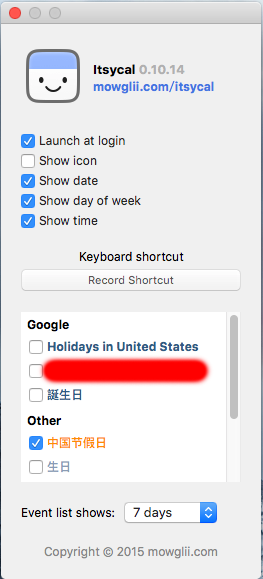
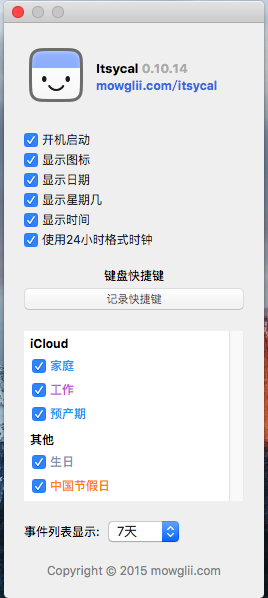
1, Add a use 24-hour clock format option in preference. 2, Update preference.png.

diff --git a/Itsycal/PrefsViewController.m b/Itsycal/PrefsViewController.m
@@ -40,6 +40,7 @@ static NSString * const kCalendarCellId = @"CalendarCell";
     NSButton *_showDate;
     NSButton *_showDayOfWeek;
     NSButton *_showTime;
+    NSButton *_use24Hour;
     NSTableView *_calendarsTV;
     NSPopUpButton *_daysPopup;
 }
@@ -137,6 +138,14 @@ static NSString * const kCalendarCellId = @"CalendarCell";
     [_showTime setButtonType:NSSwitchButton];
     [v addSubview:_showTime];
     
+    // use 24-hour clock format
+    _use24Hour = [NSButton new];
+    _use24Hour.translatesAutoresizingMaskIntoConstraints = NO;
+    _use24Hour.title = NSLocalizedString(@"Use 24-hour clock format", @"");
+    _use24Hour.font = [NSFont systemFontOfSize:12];
+    [_use24Hour setButtonType:NSSwitchButton];
+    [v addSubview:_use24Hour];
+    
     // Shortcut label
     MoTextField *shortcutLabel = txt(NSLocalizedString(@"Keyboard shortcut", @""));
     
@@ -186,18 +195,19 @@ static NSString * const kCalendarCellId = @"CalendarCell";
     
     // Convenience function to make visual constraints.
     void (^vcon)(NSString*) = ^(NSString *format) {
-        [v addConstraints:[NSLayoutConstraint constraintsWithVisualFormat:format options:0 metrics:@{@"m": @20} views:NSDictionaryOfVariableBindings(appIcon, _title, link, _login, _showIcon, _showDate, _showDayOfWeek, _showTime, shortcutLabel, shortcutView, tvContainer, daysLabel, _daysPopup, copyright)]];
+        [v addConstraints:[NSLayoutConstraint constraintsWithVisualFormat:format options:0 metrics:@{@"m": @20} views:NSDictionaryOfVariableBindings(appIcon, _title, link, _login, _showIcon, _showDate, _showDayOfWeek, _showTime, _use24Hour,shortcutLabel, shortcutView, tvContainer, daysLabel, _daysPopup, copyright)]];
     };
     vcon(@"V:|-m-[appIcon(64)]");
     vcon(@"H:|-m-[appIcon(64)]-[_title]-(>=m)-|");
     vcon(@"H:[appIcon]-[link]-(>=m)-|");
     vcon(@"V:|-36-[_title]-1-[link]");
-    vcon(@"V:|-110-[_login]-[_showIcon]-[_showDate]-[_showDayOfWeek]-[_showTime]-20-[shortcutLabel]-3-[shortcutView(25)]-20-[tvContainer(170)]-[_daysPopup]-20-[copyright]-m-|");
+    vcon(@"V:|-110-[_login]-[_showIcon]-[_showDate]-[_showDayOfWeek]-[_showTime]-[_use24Hour]-20-[shortcutLabel]-3-[shortcutView(25)]-20-[tvContainer(170)]-[_daysPopup]-20-[copyright]-m-|");
     vcon(@"H:|-m-[_login]-(>=m)-|");
     vcon(@"H:|-m-[_showIcon]-(>=m)-|");
     vcon(@"H:|-m-[_showDate]-(>=m)-|");
     vcon(@"H:|-m-[_showDayOfWeek]-(>=m)-|");
     vcon(@"H:|-m-[_showTime]-(>=m)-|");
+    vcon(@"H:|-m-[_use24Hour]-(>=m)-|");
     vcon(@"H:|-(>=m)-[shortcutLabel]-(>=m)-|");
     vcon(@"H:|-m-[shortcutView(>=220)]-m-|");
     vcon(@"H:|-m-[tvContainer]-m-|");
@@ -230,6 +240,7 @@ static NSString * const kCalendarCellId = @"CalendarCell";
     [_showDate bind:@"value" toObject:[NSUserDefaultsController sharedUserDefaultsController] withKeyPath:[@"values." stringByAppendingString:kShowData] options:@{NSContinuouslyUpdatesValueBindingOption: @(YES)}];
     [_showDayOfWeek bind:@"value" toObject:[NSUserDefaultsController sharedUserDefaultsController] withKeyPath:[@"values." stringByAppendingString:kShowDayOfWeek] options:@{NSContinuouslyUpdatesValueBindingOption: @(YES)}];
     [_showTime bind:@"value" toObject:[NSUserDefaultsController sharedUserDefaultsController] withKeyPath:[@"values." stringByAppendingString:kShowTime] options:@{NSContinuouslyUpdatesValueBindingOption: @(YES)}];
+    [_use24Hour bind:@"value" toObject:[NSUserDefaultsController sharedUserDefaultsController] withKeyPath:[@"values." stringByAppendingString:kUse24Hour] options:@{NSContinuouslyUpdatesValueBindingOption: @(YES)}];
     
     // Bindings for agenda days
     [_daysPopup bind:@"selectedIndex" toObject:[NSUserDefaultsController sharedUserDefaultsController] withKeyPath:[@"values." stringByAppendingString:kShowEventDays] options:@{NSContinuouslyUpdatesValueBindingOption: @(YES)}];

diff --git a/Itsycal/ViewController.m b/Itsycal/ViewController.m
@@ -41,6 +41,7 @@
     [[NSUserDefaults standardUserDefaults] removeObserver:self forKeyPath:kShowData];
     [[NSUserDefaults standardUserDefaults] removeObserver:self forKeyPath:kShowDayOfWeek];
     [[NSUserDefaults standardUserDefaults] removeObserver:self forKeyPath:kShowTime];
+    [[NSUserDefaults standardUserDefaults] removeObserver:self forKeyPath:kUse24Hour];
     [_clockTimer invalidate];
 }
 
@@ -443,7 +444,15 @@
     if ([[NSUserDefaults standardUserDefaults] boolForKey:kShowTime]) {
         if (dateText.length)
             [dateText appendString:@" "];
-        [dateText appendString:[NSDateFormatter localizedStringFromDate:date dateStyle:NSDateFormatterNoStyle timeStyle:NSDateFormatterShortStyle]];
+        
+        if ([[NSUserDefaults standardUserDefaults] boolForKey:kUse24Hour]) {
+            NSDateFormatter* timeFormatter = [[NSDateFormatter alloc] init];
+            [timeFormatter setDateFormat:@"HH:mm"];
+            [dateText appendString:[timeFormatter stringFromDate:date]];
+        }
+        else {
+            [dateText appendString:[NSDateFormatter localizedStringFromDate:date dateStyle:NSDateFormatterNoStyle timeStyle:NSDateFormatterShortStyle]];
+        }
     }
 
     return dateText;
@@ -806,6 +815,7 @@
     [[NSUserDefaults standardUserDefaults] addObserver:self forKeyPath:kShowData options:NSKeyValueObservingOptionNew context:NULL];
     [[NSUserDefaults standardUserDefaults] addObserver:self forKeyPath:kShowDayOfWeek options:NSKeyValueObservingOptionNew context:NULL];
     [[NSUserDefaults standardUserDefaults] addObserver:self forKeyPath:kShowTime options:NSKeyValueObservingOptionNew context:NULL];
+    [[NSUserDefaults standardUserDefaults] addObserver:self forKeyPath:kUse24Hour options:NSKeyValueObservingOptionNew context:NULL];
 }
 
 #pragma mark -
@@ -816,7 +826,7 @@
     if ([keyPath isEqualToString:kShowEventDays]) {
         [self updateAgenda];
     }
-    else if ([keyPath isEqualToString:kShowIcon] || [keyPath isEqualToString:kShowData] || [keyPath isEqualToString:kShowDayOfWeek] || [keyPath isEqualToString:kShowTime]) {
+    else if ([keyPath isEqualToString:kShowIcon] || [keyPath isEqualToString:kShowData] || [keyPath isEqualToString:kShowDayOfWeek] || [keyPath isEqualToString:kShowTime] || [keyPath isEqualToString:kUse24Hour]) {
         [self updateMenubarIcon];
     }
 }

diff --git a/Itsycal/Itsycal.m b/Itsycal/Itsycal.m
@@ -23,6 +23,7 @@ NSString * const kShowIcon = @"ShowIcon";
 NSString * const kShowData = @"ShowData";
 NSString * const kShowDayOfWeek = @"ShowDayOfWeek";
 NSString * const kShowTime = @"ShowTime";
+NSString * const kUse24Hour = @"Use24Hour";
 NSString * const kAllowOutsideApplicationsFolder = @"AllowOutsideApplicationsFolder";
 
 // Menu extra notifications

diff --git a/Itsycal/AppDelegate.m b/Itsycal/AppDelegate.m
@@ -31,7 +31,8 @@
         kShowIcon:         @(YES),
         kShowData:         @(NO),
         kShowDayOfWeek:    @(NO),
-        kShowTime:         @(NO)
+        kShowTime:         @(NO),
+        kUse24Hour:        @(NO)
     }];
     
     // Constrain kShowEventDays to values 0...7 in (unlikely) case it is invalid.

diff --git a/Itsycal/Itsycal.h b/Itsycal/Itsycal.h
@@ -24,6 +24,7 @@ extern NSString * const kShowIcon;
 extern NSString * const kShowData;
 extern NSString * const kShowDayOfWeek;
 extern NSString * const kShowTime;
+extern NSString * const kUse24Hour;
 extern NSString * const kAllowOutsideApplicationsFolder;
 
 // Menu extra notifications
